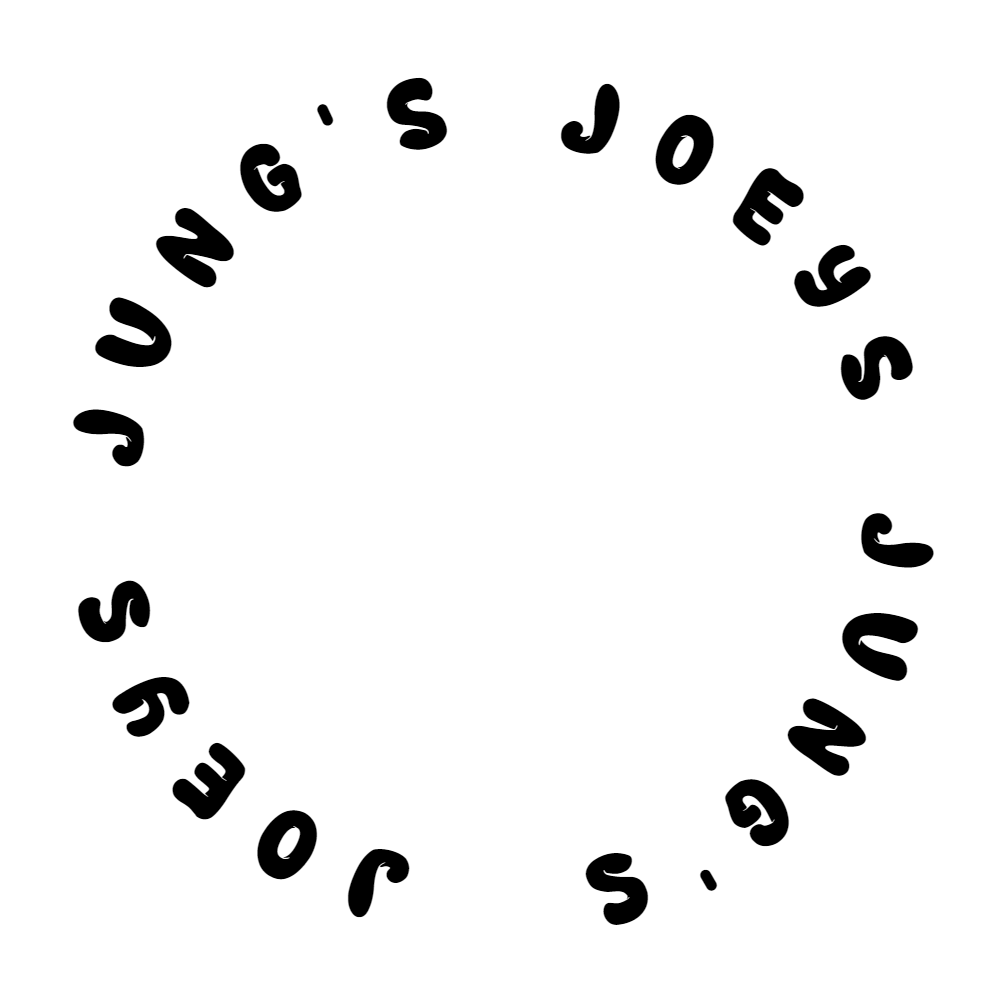
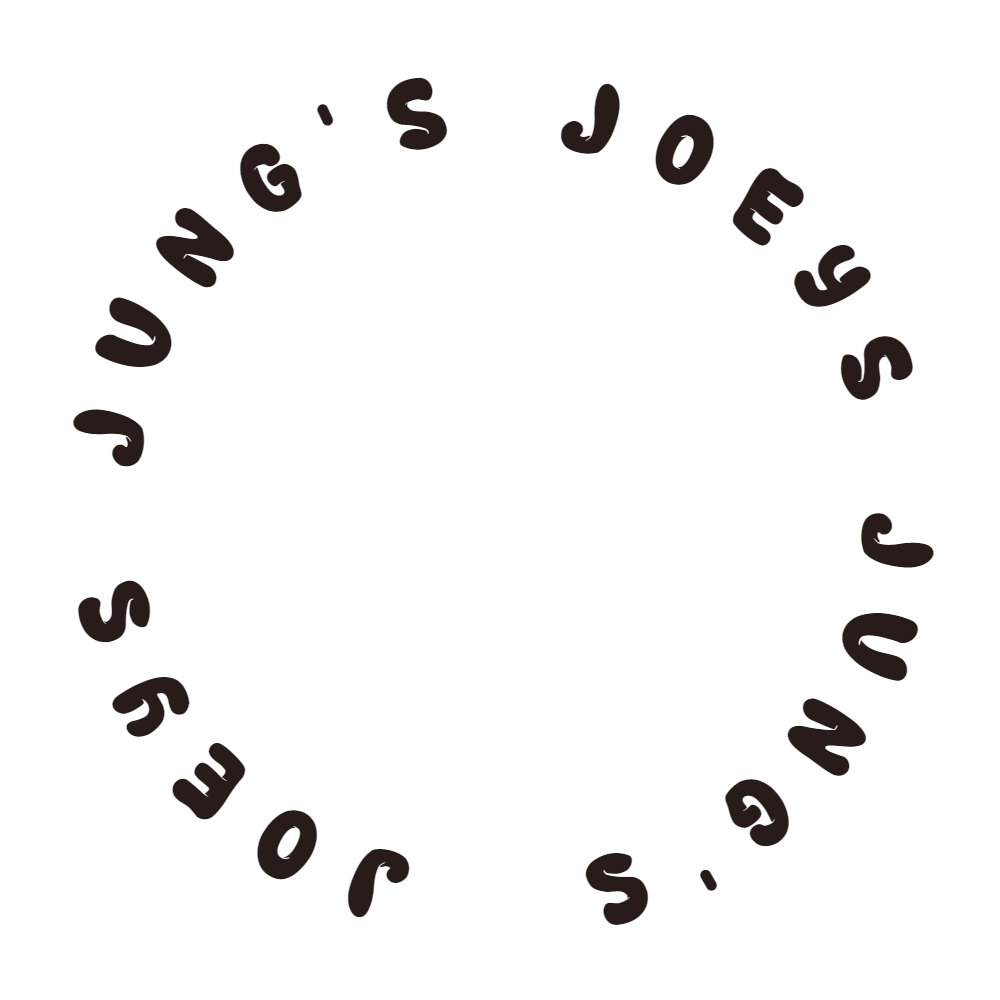
study forum page, colors

diff --git a/client/src/pages/Forum.js b/client/src/pages/Forum.js
@@ -1,6 +1,6 @@
 import React, { useEffect } from "react";
 import Category from "../components/Category";
-import "./styles/forum.css"
+import "./styles/forum.css";
 
 import { useQuery } from "@apollo/client";
 import { GET_TOPICS } from "../utils/queries";
@@ -8,7 +8,7 @@ import { GET_TOPICS } from "../utils/queries";
 const CATEGORY_TOPICS = [
   "Unit 1 - HTML, Git, CSS",
   "Unit 2 - Advanced CSS",
-  "unit 3 - JavaScript",
+  "Unit 3 - JavaScript",
   "Unit 4 - Web APIs",
   "Unit 5 - Third Party APIs",
   "Unit 6 - Server Side APIs",
@@ -33,29 +33,27 @@ const CATEGORY_TOPICS = [
 ];
 
 const Forum = () => {
-
-
-    const  {loading, error, data} =  useQuery(GET_TOPICS);
+  const { loading, error, data } = useQuery(GET_TOPICS);
   const topicData = data?.getTopics || [];
 
-
-    return (
-      <div className="topics">
-        <ul className="collection with-header">
-          <li className="collection-header"><h3>Select a Topic Below</h3></li>
-            <Category name="Career" />
-            <br />
-         {loading ? 
-         <div className="topic-loading" >Loading...</div> 
-         :
+  return (
+    <div className="topics container">
+      <ul className="collection with-header topics-border">
+        <li className="collection-header">
+          <h3 className="select-topic">SELECT A TOPIC</h3>
+        </li>
+        {loading ? (
+          <div className="topic-loading">Loading...</div>
+        ) : (
           <div className="codetopic">
-          {topicData.map(topic => <Category name={topic.name} />)}
-        </div>}
-        </ul>
-      </div>
-    );
-  }
+            {topicData.map((topic) => (
+              <Category name={topic.name} />
+            ))}
+          </div>
+        )}
+      </ul>
+    </div>
+  );
+};
 
-  export default Forum;
-
-
+export default Forum;

diff --git a/client/src/pages/styles/forum.css b/client/src/pages/styles/forum.css
@@ -1,12 +1,23 @@
+.topics {
+  text-align: center;
+  padding: 2rem 0rem;
+}
+
+.topics-border {
+  border: 5px solid #55423d;
+  border-radius: 25px;
+}
+
+.select-topic {
+  font-weight: bolder;
+  color: #271c19;
+}
 
 .codetopic {
-    height: 400px;
-    display: flex;
-    flex-direction: column;
-    flex-wrap: wrap;
-    align-items: stretch;
-    background-color: #f1f1f1;
-  }
-
-
-
+  height: 525px;
+  display: flex;
+  flex-direction: column;
+  flex-wrap: wrap;
+  align-items: stretch;
+  background-color: #f1f1f1;
+}

diff --git a/client/src/components/Question/index.js b/client/src/components/Question/index.js
@@ -7,7 +7,7 @@ export default function Question() {
     <div>
       <ul className="collection myposts">
         <li className="collection-item avatar">
-          <h3>POSTS</h3>
+          <h3 className="posts-header">POSTS</h3>
           <Link to="/" className="secondary-content">
             <i className="material-icons"></i>
           </Link>

diff --git a/client/src/components/Question/style.css b/client/src/components/Question/style.css
@@ -1,6 +1,6 @@
 .myposts {
   text-align: left;
-  border: 5px solid #271c19;
+  border: 5px solid #55423d;
   border-radius: 25px;
   min-width: 350px;
 }
@@ -10,8 +10,10 @@
   min-width: 350px;
 }
 
-h3 {
+.posts-header {
+  font-weight: bold;
   text-decoration: underline;
+  color: #271c19;
 }
 
 .topics {

diff --git a/client/src/components/ProfileCard/style.css b/client/src/components/ProfileCard/style.css
@@ -3,7 +3,7 @@
   max-width: 300px;
   min-width: 300px;
   text-align: center;
-  border: 5px solid #271c19;
+  border: 5px solid #55423d;
   padding: 10px;
   border-radius: 25px;
 }

diff --git a/client/src/components/Navbar/style.css b/client/src/components/Navbar/style.css
@@ -1,6 +1,6 @@
 .navbar-fixed,
 .bar {
-  background-color: #271c19;
+  background-color: #55423d;
   height: 100px;
 }
 
